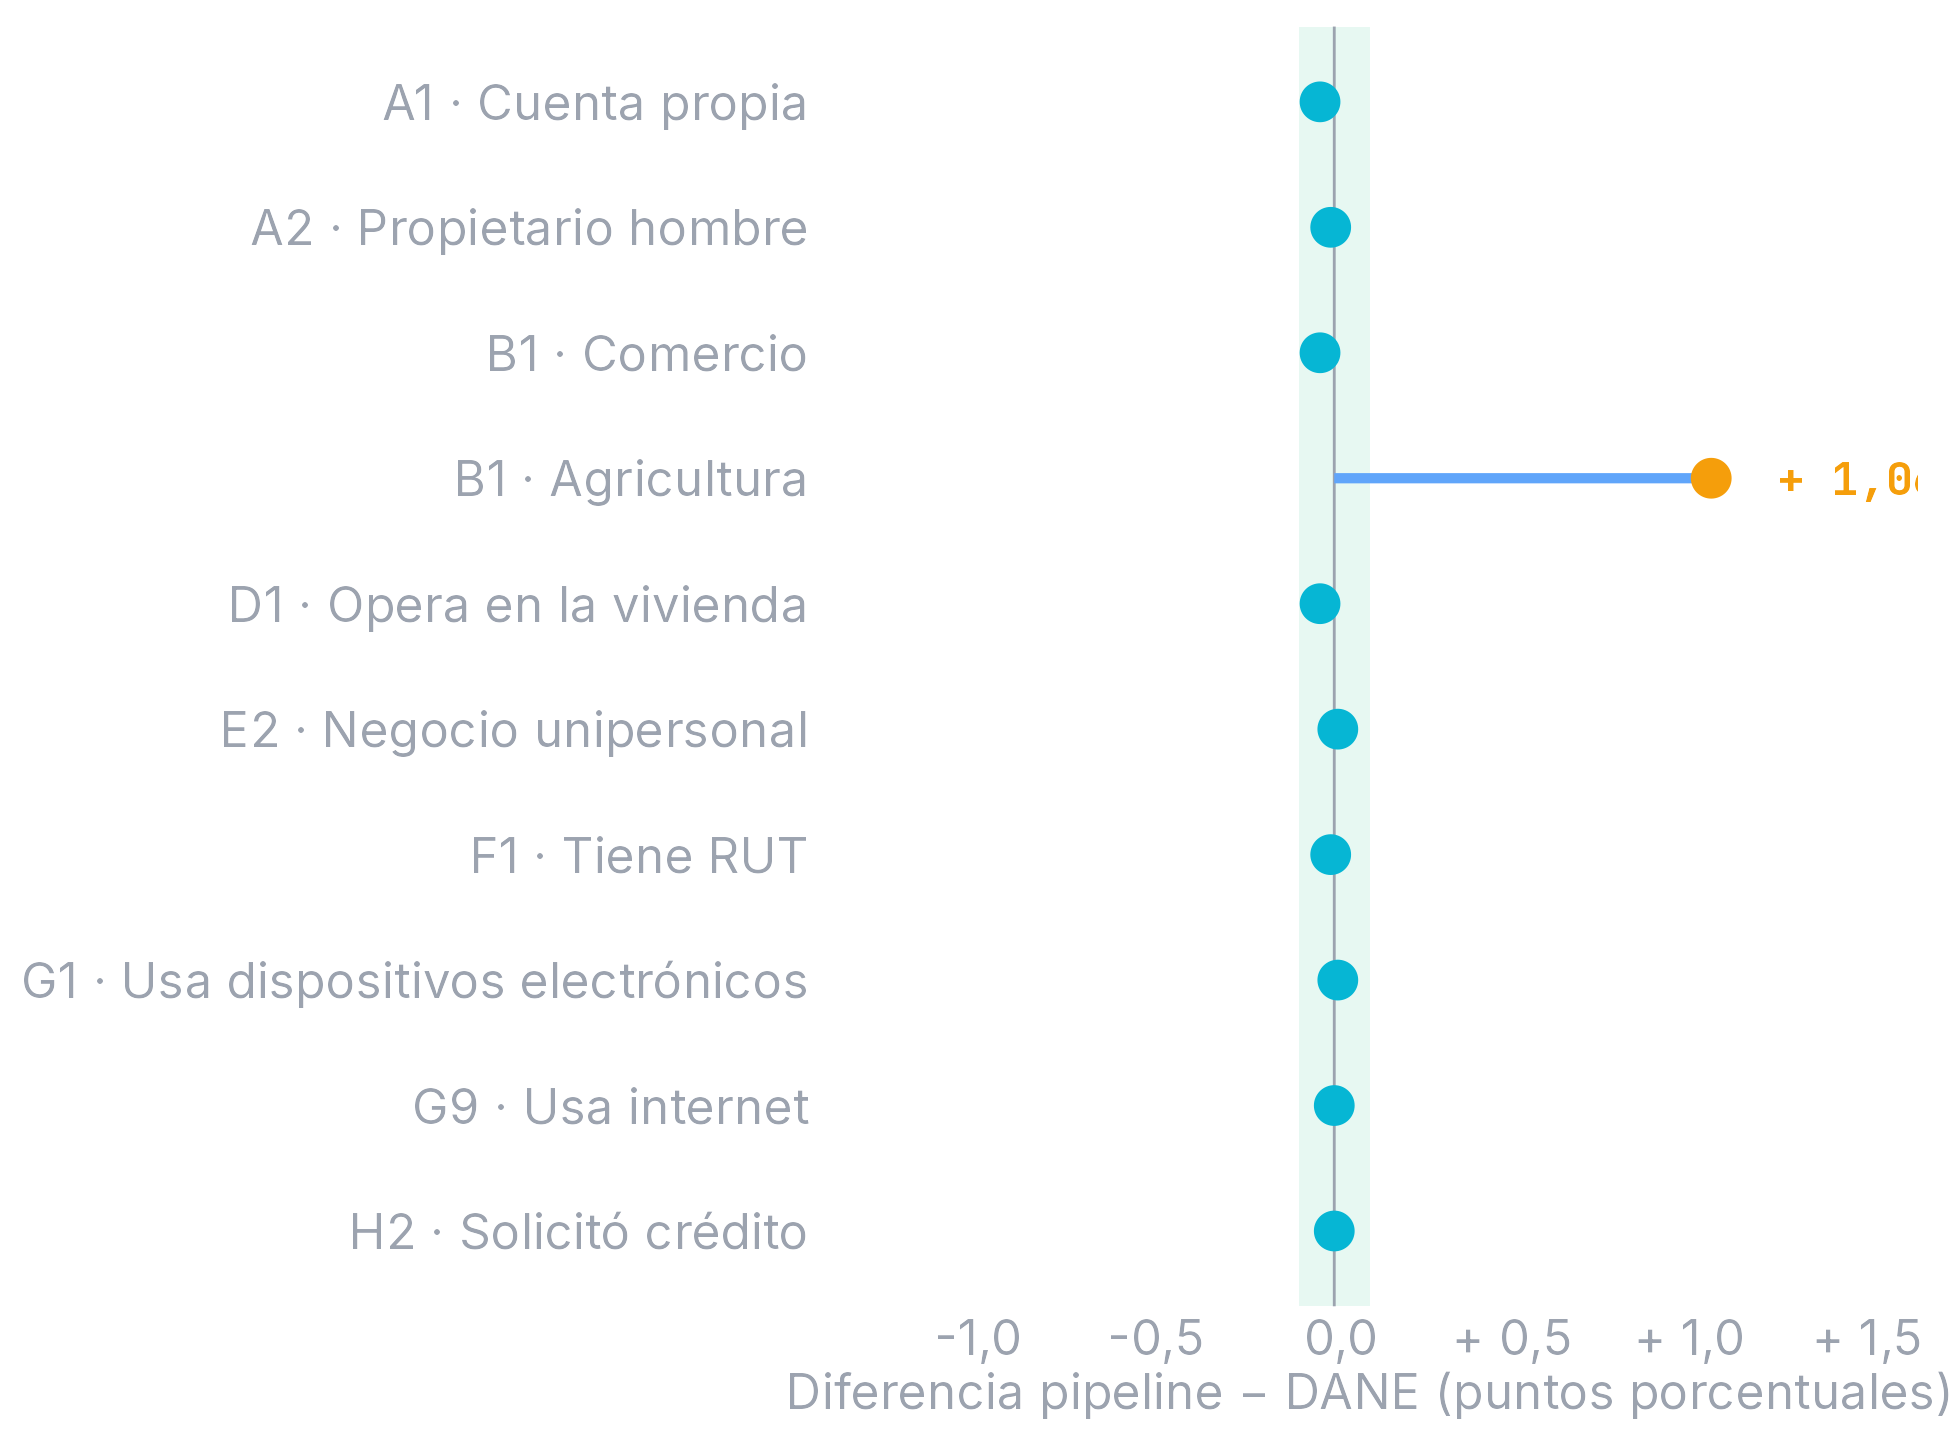
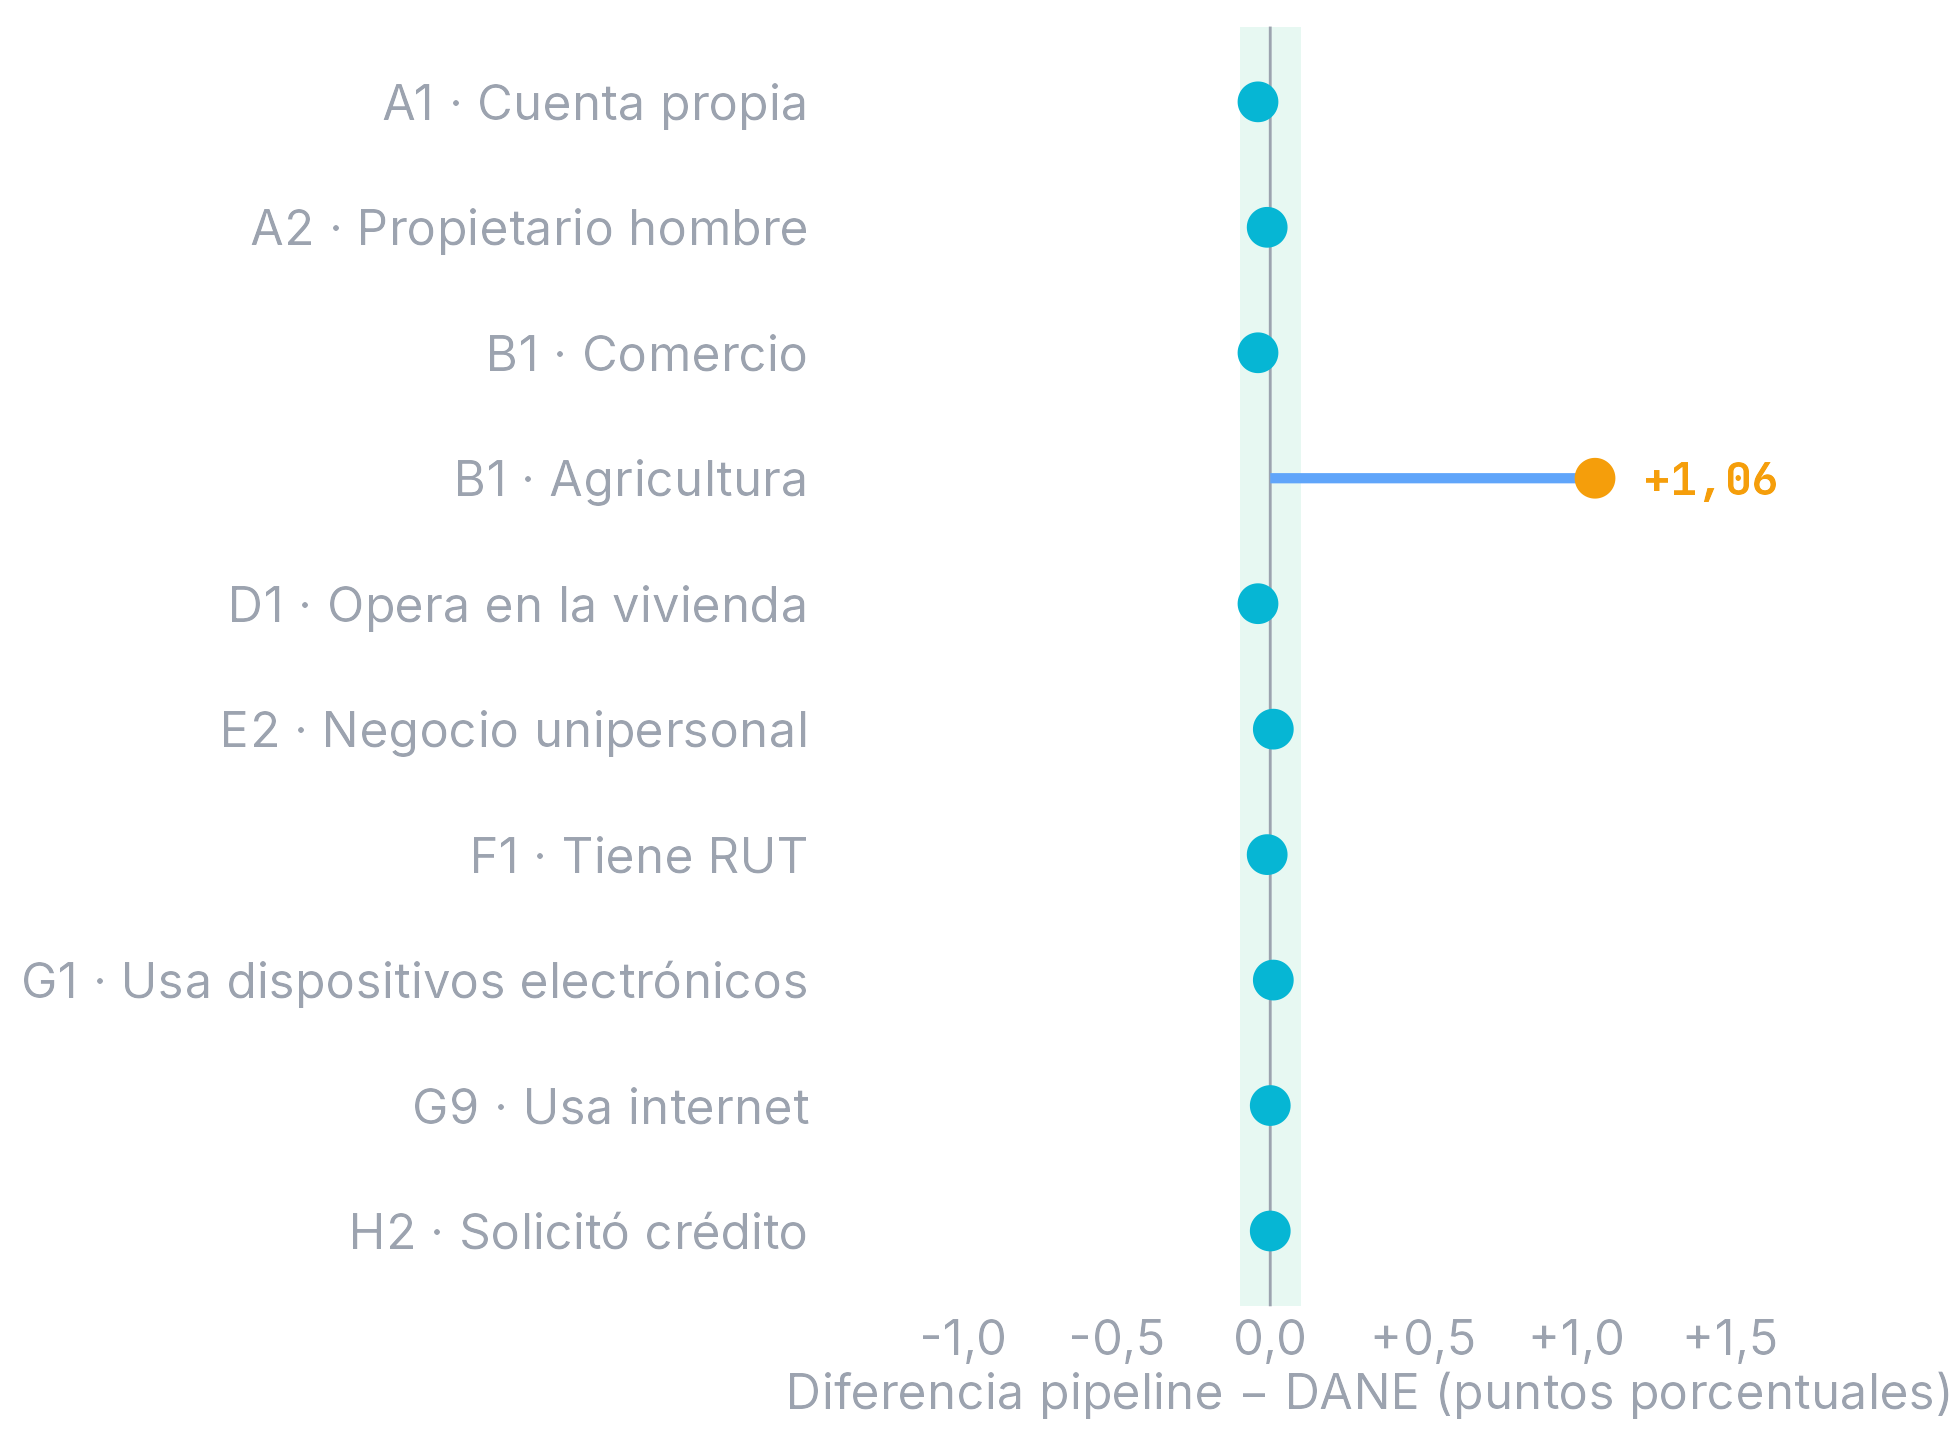
fix(presentacion): etiqueta +1,06 cortada y espacios sobrantes en el eje de la validación

diff --git a/presentacion/datos.js b/presentacion/datos.js
@@ -284,5 +284,5 @@ window.DATOS = {
       "Pct_Con_RUT": 27.91
     }
   ],
-  "generado_en": "2026-11-10 10:01"
+  "generado_en": "2026-11-10 10:42"
 };
